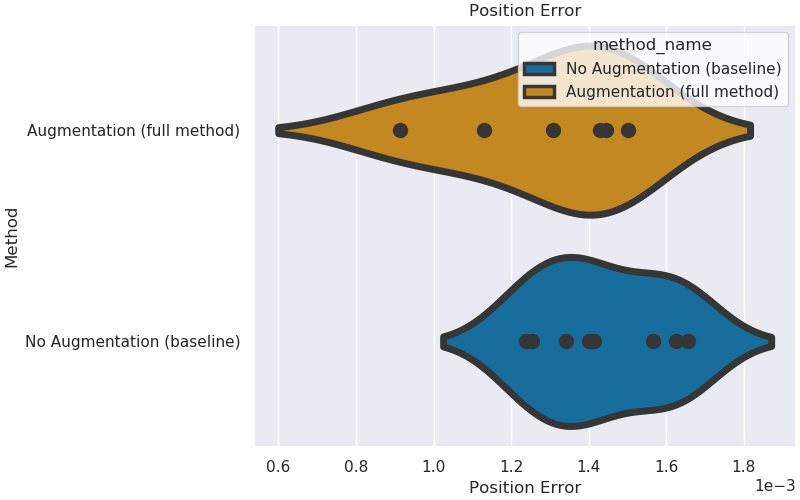
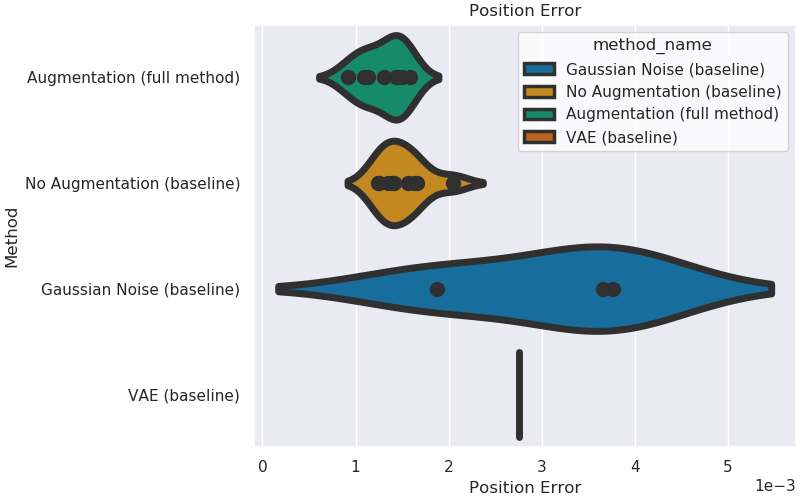
fix warning for VAE datasets???

diff --git a/analysis/scripts/propnet_aug_plots.py b/analysis/scripts/propnet_aug_plots.py
@@ -23,12 +23,14 @@ def main():
     }
     df = df.loc[df['dataset_dir'].isin(method_name_map.keys())]
     metric_name = 'mean_error_pos'
-    df = df.loc[df[metric_name] != None]
-    df = df.loc[df['penetration'] != None]
+    df = df.loc[~df[metric_name].isna()]
+    df = df.loc[~df['penetration'].isna()]
+    df[metric_name] = df[metric_name].astype(np.float32)
+    df['penetration'] = df['penetration'].astype(np.float32)
     df = df.loc[df['scenario'] == 'cylinders']
     df = df.loc[df['tags'].apply(lambda l: 'eval' in l and 'odd' not in l and 'bad' not in l)]
     df[m] = df['dataset_dir'].map(method_name_map)
-    df[metric_name] = df[metric_name].astype(np.float32)
+    df = df.drop(list(filter(lambda c: 'gradient' in c, df.columns)), axis=1)
 
     print_metrics(df, method_name_map, metric_name)
 

diff --git a/propnet/src/propnet/train_test_propnet.py b/propnet/src/propnet/train_test_propnet.py
@@ -75,12 +75,14 @@ def train_main(dataset_dir: pathlib.Path,
     train_loader = DataLoader(train_dataset_take,
                               batch_size=batch_size,
                               shuffle=True,
+                              collate_fn=my_collate,
                               num_workers=get_num_workers(batch_size))
 
     val_loader = None
     if len(val_dataset) > 0 and not no_validate:
         val_loader = DataLoader(val_dataset,
                                 batch_size=batch_size,
+                                collate_fn=my_collate,
                                 num_workers=get_num_workers(batch_size))
 
     model_params = load_hjson(model_params)

diff --git a/moonshine/src/moonshine/torch_datasets_utils.py b/moonshine/src/moonshine/torch_datasets_utils.py
@@ -48,7 +48,7 @@ def my_collate(batch):
 
             return my_collate([torch.as_tensor(b) for b in batch])
         elif elem.shape == ():  # scalars
-            return torch.as_tensor(batch)
+            return torch.as_tensor(np.array(batch))
     elif isinstance(elem, float):
         return torch.tensor(batch, dtype=torch.float64)
     elif isinstance(elem, int):
